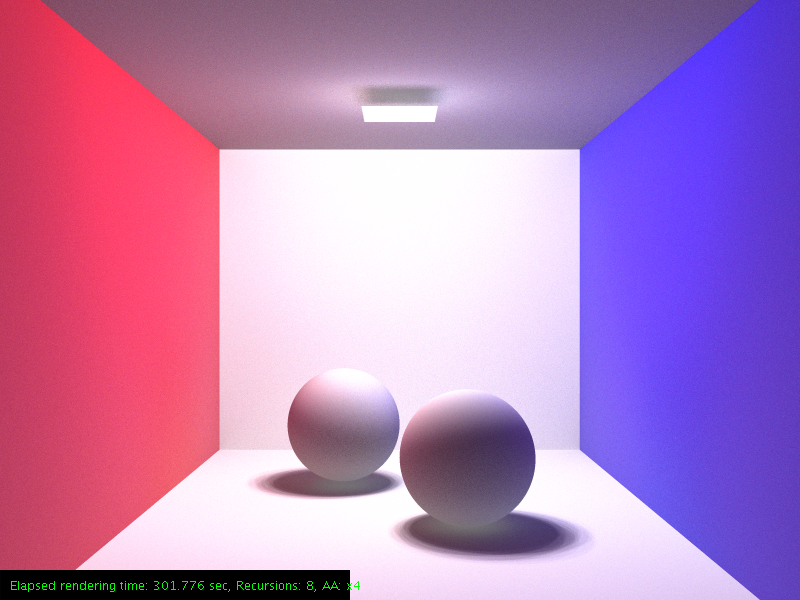
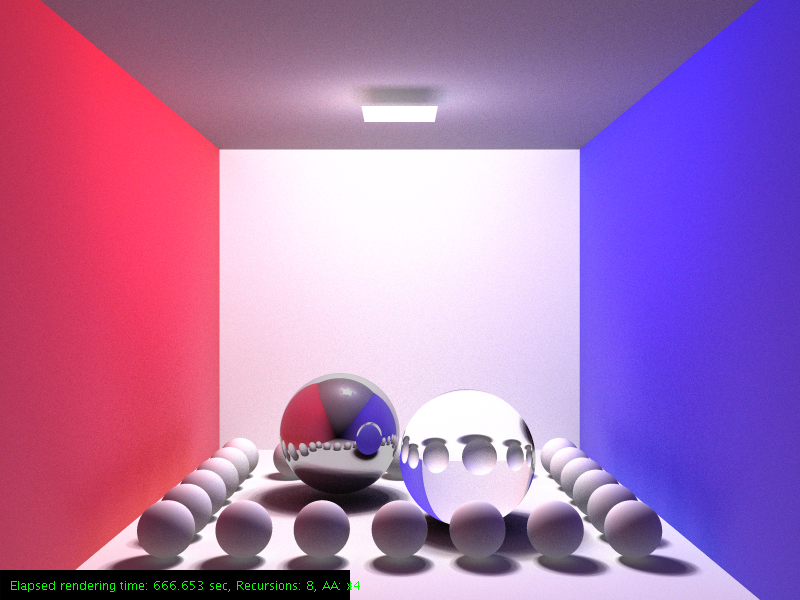
Pretty rendering

Changed region(s): [[0.0938, 0.6, 0.9062, 0.99], [0.5312, 0.12, 0.5938, 0.18]]

diff --git a/VCG_Raytracer/src/Main.java b/VCG_Raytracer/src/Main.java
@@ -65,8 +65,8 @@ public class Main {
 
     static RgbColor AMBIENT_LIGHT = new RgbColor(0.01f, 0.01f, 0.01f);
 
-    static short LIGHT_DENSITY = 20;
-    static short LIGHT_SAMPLES = 30;
+    static short LIGHT_DENSITY = 30;
+    static short LIGHT_SAMPLES = 40;
     static RgbColor LIGHT_COLOR = RgbColor.GRAY;
 
     static RgbColor BACKGROUND_COLOR = RgbColor.BLACK;
@@ -181,9 +181,35 @@ public class Main {
 
         Material lambert1 = new LambertMaterial(RgbColor.LIGHT_GRAY, RgbColor.WHITE);
 
-        renderScene.createSphere(new Vec3(-BOX_DIMENSION /4f, -BOX_DIMENSION/1.2f + 1.1f, -BOX_DIMENSION /3f+3), lambert1, sphereRadius);
-        renderScene.createSphere(new Vec3(BOX_DIMENSION/4f, -BOX_DIMENSION/1.2f + sphereRadius, BOX_DIMENSION /3f+3), lambert1, sphereRadius);
+        renderScene.createSphere(new Vec3(-BOX_DIMENSION /4f, -BOX_DIMENSION/1.2f + 1.1f, -BOX_DIMENSION /3f+4), sphereMaterial1, sphereRadius);
+        renderScene.createSphere(new Vec3(BOX_DIMENSION/4f, -BOX_DIMENSION/1.2f + sphereRadius, BOX_DIMENSION /3f+3), sphereMaterial2, sphereRadius);
         //renderScene.createSphere(new Vec3(BOX_DIMENSION/4f, -BOX_DIMENSION + sphereRadius, BOX_DIMENSION /3f+3), sphereMaterial3, smallSphereRadius);
+
+        renderScene.createSphere(new Vec3(-BOX_DIMENSION+1f, -BOX_DIMENSION + smallSphereRadius*1.75f, 6), lambert1, smallSphereRadius);
+        renderScene.createSphere(new Vec3(-BOX_DIMENSION+2f, -BOX_DIMENSION + smallSphereRadius*1.75f, 6), lambert1, smallSphereRadius);
+        renderScene.createSphere(new Vec3(-BOX_DIMENSION+3f, -BOX_DIMENSION + smallSphereRadius*1.75f, 6), lambert1, smallSphereRadius);
+        renderScene.createSphere(new Vec3(-BOX_DIMENSION+4f, -BOX_DIMENSION + smallSphereRadius*1.75f, 6), lambert1, smallSphereRadius);
+        renderScene.createSphere(new Vec3(-BOX_DIMENSION+5f, -BOX_DIMENSION + smallSphereRadius*1.75f, 6), lambert1, smallSphereRadius);
+        renderScene.createSphere(new Vec3(-BOX_DIMENSION+6f, -BOX_DIMENSION + smallSphereRadius*1.75f, 6), lambert1, smallSphereRadius);
+        renderScene.createSphere(new Vec3(-BOX_DIMENSION+7f, -BOX_DIMENSION + smallSphereRadius*1.75f, 6), lambert1, smallSphereRadius);
+
+        renderScene.createSphere(new Vec3(-BOX_DIMENSION+7f, -BOX_DIMENSION + smallSphereRadius*1.75f, 5), lambert1, smallSphereRadius);
+        renderScene.createSphere(new Vec3(-BOX_DIMENSION+7f, -BOX_DIMENSION + smallSphereRadius*1.75f, 4), lambert1, smallSphereRadius);
+        renderScene.createSphere(new Vec3(-BOX_DIMENSION+7f, -BOX_DIMENSION + smallSphereRadius*1.75f, 3), lambert1, smallSphereRadius);
+        renderScene.createSphere(new Vec3(-BOX_DIMENSION+7f, -BOX_DIMENSION + smallSphereRadius*1.75f, 2), lambert1, smallSphereRadius);
+        renderScene.createSphere(new Vec3(-BOX_DIMENSION+7f, -BOX_DIMENSION + smallSphereRadius*1.75f, 1), lambert1, smallSphereRadius);
+
+        renderScene.createSphere(new Vec3(-BOX_DIMENSION+1f, -BOX_DIMENSION + smallSphereRadius*1.75f, 5), lambert1, smallSphereRadius);
+        renderScene.createSphere(new Vec3(-BOX_DIMENSION+1f, -BOX_DIMENSION + smallSphereRadius*1.75f, 4), lambert1, smallSphereRadius);
+        renderScene.createSphere(new Vec3(-BOX_DIMENSION+1f, -BOX_DIMENSION + smallSphereRadius*1.75f, 3), lambert1, smallSphereRadius);
+        renderScene.createSphere(new Vec3(-BOX_DIMENSION+1f, -BOX_DIMENSION + smallSphereRadius*1.75f, 2), lambert1, smallSphereRadius);
+        renderScene.createSphere(new Vec3(-BOX_DIMENSION+1f, -BOX_DIMENSION + smallSphereRadius*1.75f, 1), lambert1, smallSphereRadius);
+
+        renderScene.createSphere(new Vec3(-BOX_DIMENSION+2f, -BOX_DIMENSION + smallSphereRadius*1.75f, 1), lambert1, smallSphereRadius);
+        renderScene.createSphere(new Vec3(-BOX_DIMENSION+3f, -BOX_DIMENSION + smallSphereRadius*1.75f, 1), lambert1, smallSphereRadius);
+        renderScene.createSphere(new Vec3(-BOX_DIMENSION+4f, -BOX_DIMENSION + smallSphereRadius*1.75f, 1), lambert1, smallSphereRadius);
+        renderScene.createSphere(new Vec3(-BOX_DIMENSION+5f, -BOX_DIMENSION + smallSphereRadius*1.75f, 1), lambert1, smallSphereRadius);
+        renderScene.createSphere(new Vec3(-BOX_DIMENSION+6f, -BOX_DIMENSION + smallSphereRadius*1.75f, 1), lambert1, smallSphereRadius);
     }
 
     private static void setupLightShapes(Scene renderScene) {
